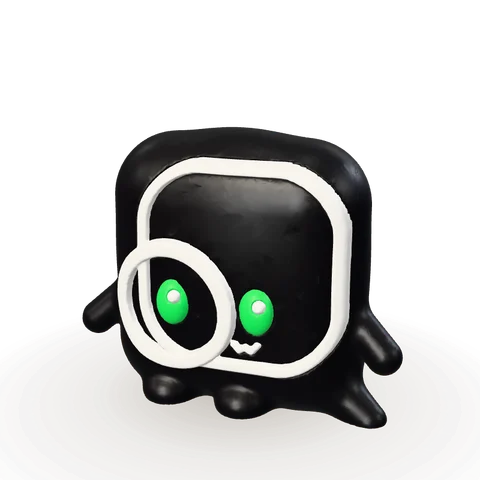
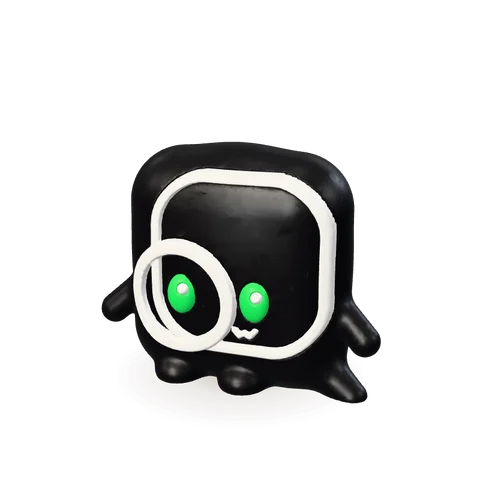
fix: poster shadow clipping, compare-mode toggle styling, deploy script identity

Changed region(s): [[0.1562, 0.25, 0.8438, 0.9688]]

diff --git a/src/viewer.ts b/src/viewer.ts
@@ -126,7 +126,7 @@ export class Viewer {
     const parts = new Map<string, Mesh>();
     inner.traverse((o) => { const m = o as Mesh; if (m.isMesh) { parts.set(m.name, m); m.userData.base = m.position.clone(); } });
     const disc = new Mesh(this.discGeo, this.discMat); disc.receiveShadow = true; disc.castShadow = false; disc.visible = !this.opts.poster;
-    const blob = new Mesh(new PlaneGeometry(2.9, 2.9), this.blobMat); blob.rotation.x = -Math.PI / 2; blob.position.y = 0.002; blob.renderOrder = -1;
+    const blob = new Mesh(new PlaneGeometry(this.opts.poster ? 1.5 : 2.6, this.opts.poster ? 1.5 : 2.6), this.blobMat); blob.rotation.x = -Math.PI / 2; blob.position.y = 0.002; blob.renderOrder = -1;
     root.add(disc, blob);
     this.scene.add(root);
     return { id, ver, root, inner, parts, disc, baseScale, height: mm.y * baseScale, t0: performance.now() };
@@ -158,7 +158,7 @@ export class Viewer {
     this.slots.push(s1, s2);
     this.slots.forEach((s) => this.applyHidden(s));
     const h = Math.max(s1.height, s2.height);
-    this.frame = { halfW: 2.55, halfH: Math.max(0.7, h * 0.5 + 0.5), cy: h * 0.5 + 0.12 };
+    this.frame = { halfW: 2.45, halfH: Math.max(0.7, h * 0.5 + 0.5), cy: h * 0.5 + 0.12 };
     this.fitCamera(false);
     this.wake();
   }

diff --git a/src/style.css b/src/style.css
@@ -58,7 +58,8 @@ body.gl-ready .viewer-host { opacity: 1; }
 .seg button[aria-selected="true"] { color: #fff; }
 .seg-thumb { position: absolute; top: 3px; bottom: 3px; left: 3px; width: calc(50% - 3px); border-radius: 99px; background: var(--ink); transition: transform .3s cubic-bezier(.3, 1.3, .5, 1); }
 .seg[data-ver="pixel"] .seg-thumb { transform: translateX(100%); }
-.seg.disabled { opacity: .55; }
+.seg.disabled .seg-thumb { opacity: 0; }
+.seg.disabled button[aria-selected="true"] { color: var(--muted); }
 .tools { position: absolute; right: 10px; top: 10px; display: flex; flex-direction: column; gap: 8px; }
 .tool { width: 40px; height: 40px; border-radius: 50%; display: grid; place-items: center; background: rgba(255, 255, 255, .72); backdrop-filter: blur(10px); -webkit-backdrop-filter: blur(10px); box-shadow: 0 0 0 1px var(--line); transition: .2s; }
 .tool svg { width: 20px; height: 20px; fill: none; stroke: var(--ink); stroke-width: 1.7; stroke-linecap: round; stroke-linejoin: round; }
